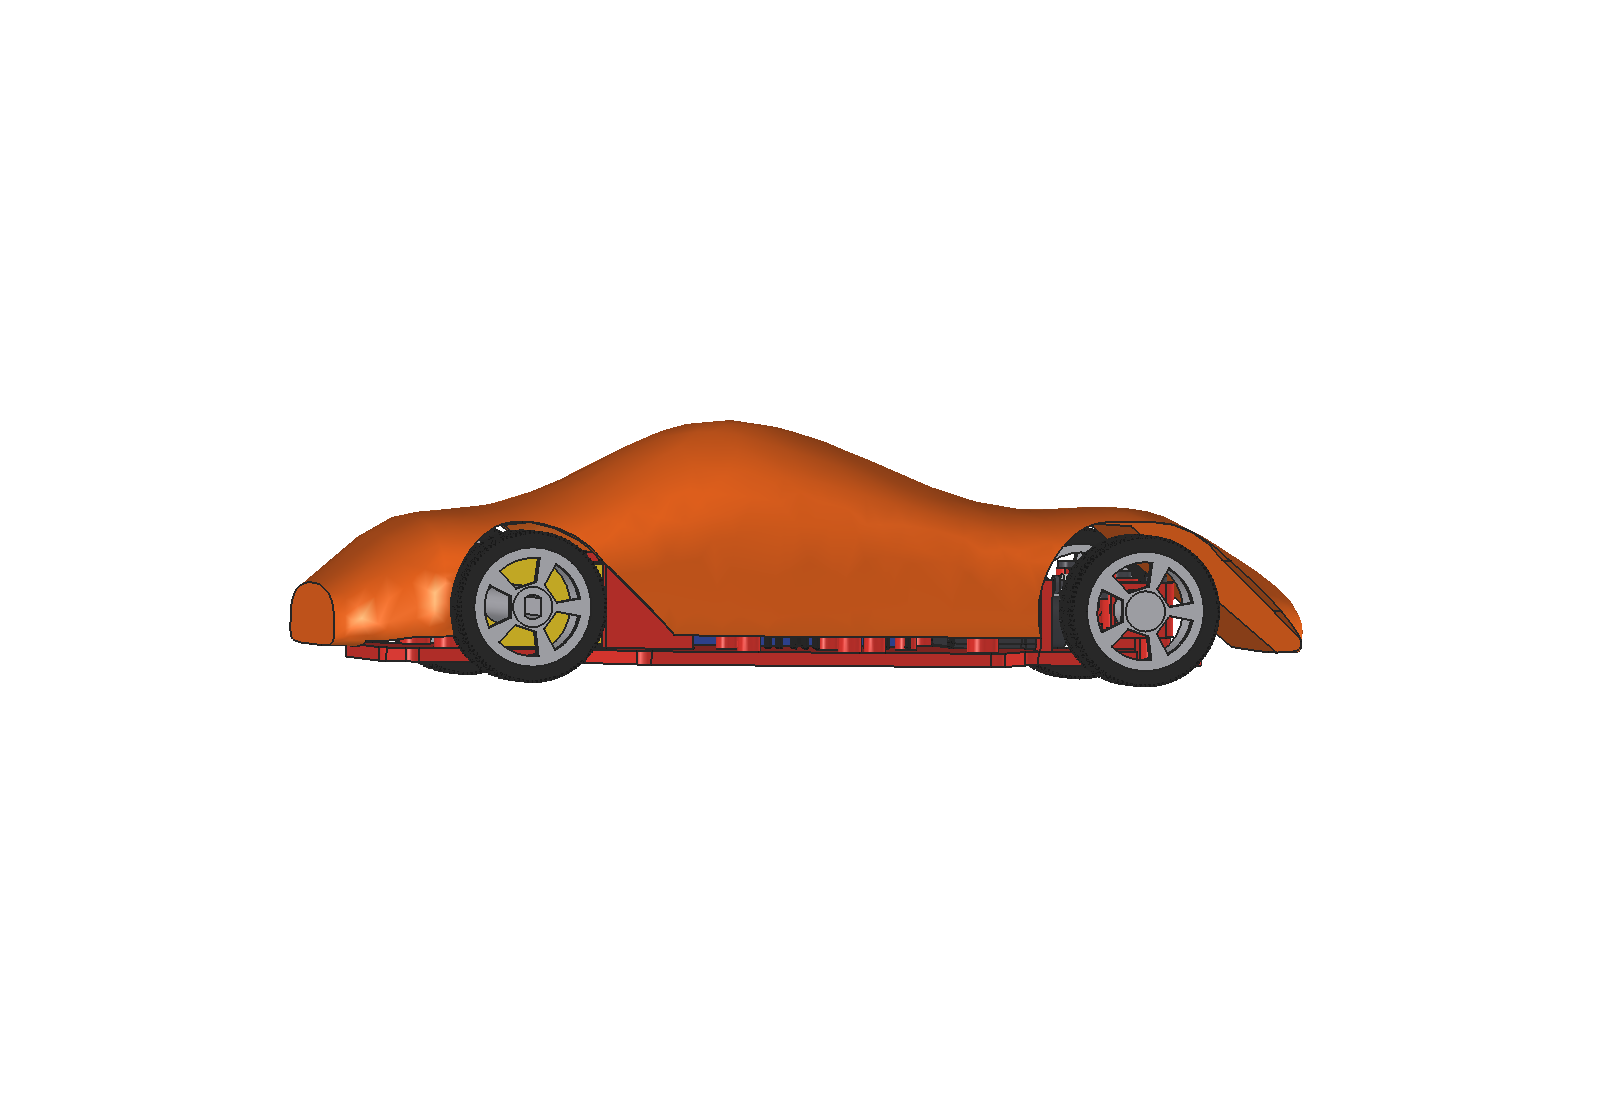
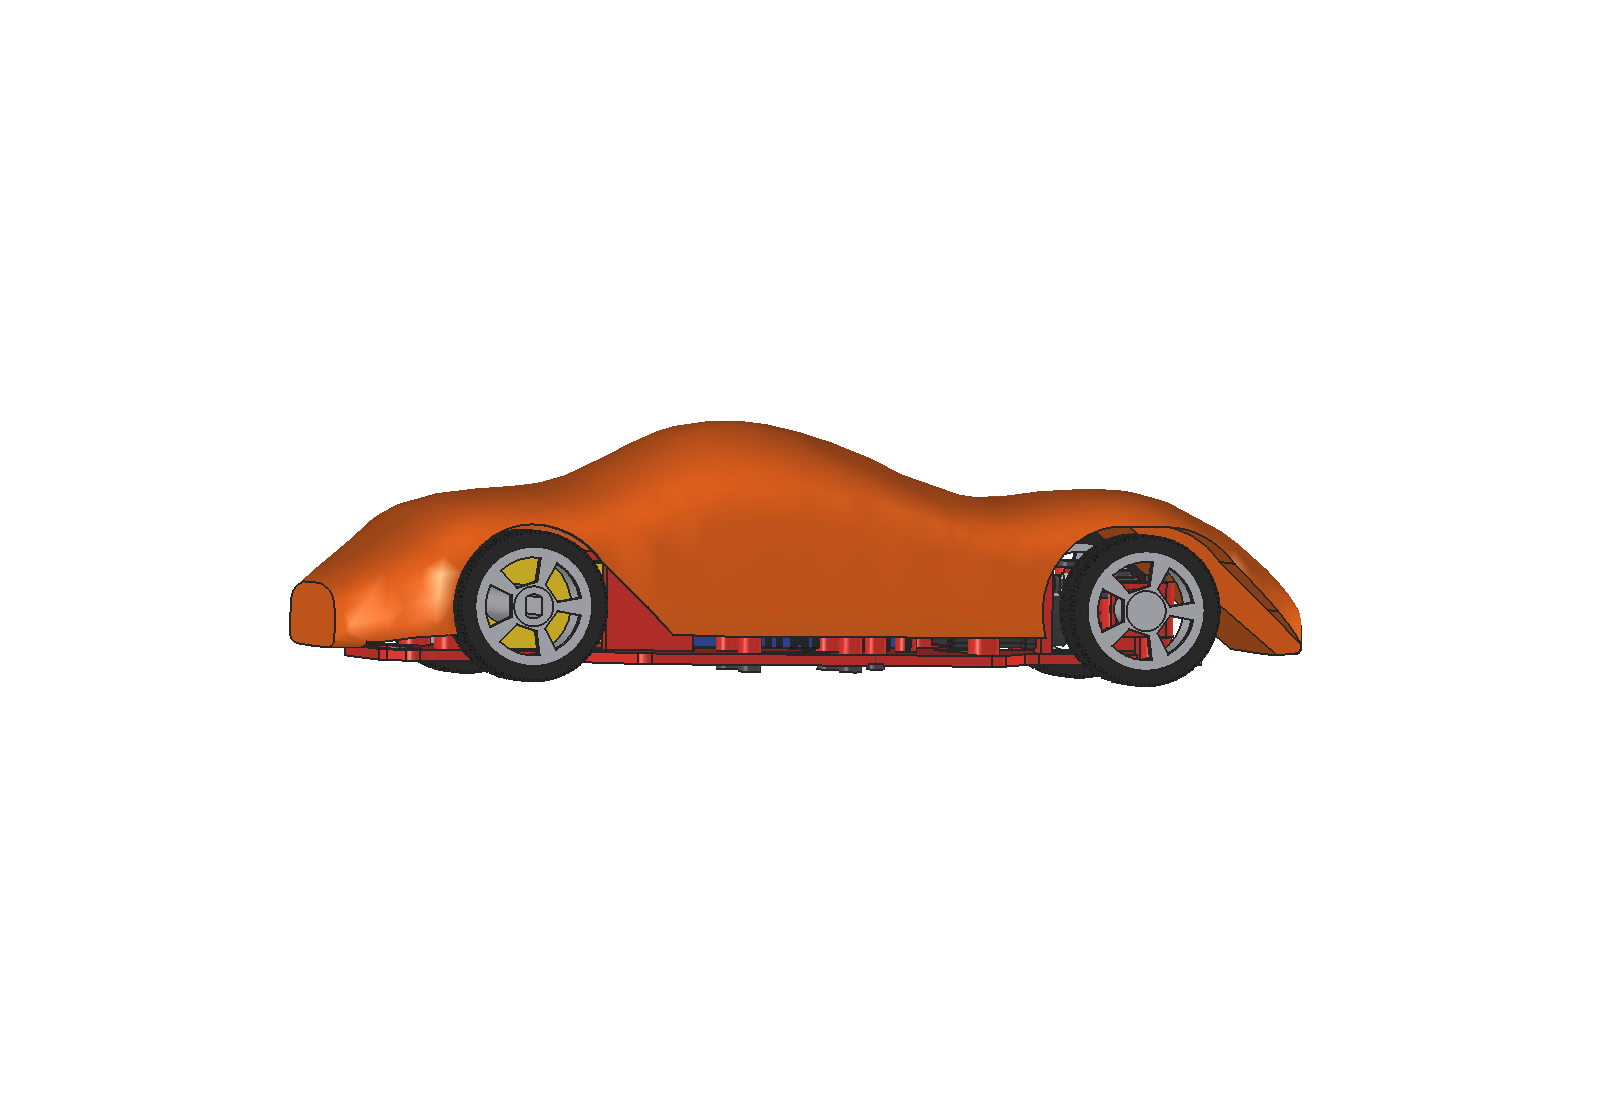
Kiem het roi moi cat lop + cyberbrick-car tiet kiem nhua 127 -> 118 g, chan bun phong
- prepare-print.py: tang 1 + kha nang in (printability + kiem theo lop) truoc; con loi -> dung, khong cat lop
  (ep: force)
- cyberbrick-car: vo 1.3 mm (= 3 duong Bambu; 1.2 -> slicer bao floating), san 2.4 mm + 6 cua so giam tai,
  infill san 15 %, vanh 20 %; chan bun phong che banh (hoc banh truoc da xuyen noc chan bun -> vo mong, cantilever);
  tran cua so gia servo 2 mai 45 do; them truc ra ben trai (bo 2 truc, ~9 mm do tu anh huong dan chinh hang)
- Ket qua: kiem nhanh WARN (bao loi hop so), kha nang in WARN (cau 4 mm khop lai), cat lop PASS 7h17, 118 g

diff --git a/claude-workspace/maker/cyberbrick-car/freecad/scripts/build_car.py b/claude-workspace/maker/cyberbrick-car/freecad/scripts/build_car.py
@@ -16,15 +16,16 @@ LIB = os.path.join(PROJ, "..", "..", "community", "cyberbrick-official", "models
 
 P = dict(            # ---- tham so chinh (mm) ----
     wheelbase=140.0, track=72.0, wheel_r=16.8, tire_w=13.7,
-    plate_z0=4.0, plate_t=3.0,          # tam san: gam 4 mm
+    plate_z0=4.0, plate_t=2.4,          # tam san: gam 4 mm; 2.4 mm + cua so giam tai (tiet kiem nhua, Tuan 2026-10-23)
     clr=0.2,                            # khe lap ghep (Tuan chot 0.2)
-    shell_t=1.6,                        # vo than xe
+    shell_t=1.3,                        # vo than xe = dung 3 duong Bambu (0.42 + 2 x 0.45); 1.2 -> 2 duong + lap khe vun
+                                        # -> slicer bao floating (2026-10-23). 1.6 -> 1.3 tiet kiem nhua
     kingpin_y=20.0, kingpin_dx=7.0,     # chot lai truoc tam banh 7 mm (caster duong: tu ve thang)
     arm_len=12.0,                       # lai Ackermann: tay lai huong ve tam truc sau
     servo_dy=-3.5,                      # lech servo sang phai de gia servo nam trong san
     servo_type="pg001",                 # servo lai: "pg001" (CyberBrick 9g 180) | "mg90s" (Tower Pro, mua ngoai) - gia dung chung
     servo_horn_r=8.2,
-    rear_arch_r=18.8, front_arch_r=19.6, front_arch_dx=5.0,
+    rear_arch_r=18.3, front_arch_r=18.8, front_arch_dx=5.0,   # dinh hoc banh duoi mat chan bun >= 3 mm
     stub_d=5.0,                         # truc banh truoc IN LIEN VANH (in dung), qua lo giot nuoc o khop lai
     rear_bore_d=5.4, rear_bore_af=3.7,  # truc ra double-D (do STEP: D5.3, dep 3.6 = chuan TT); TODO do bo 2 truc
     post_top=30.0, magnet_d=4.4, magnet_h=2.1,
@@ -103,6 +104,9 @@ GB_ROT = App.Rotation(V(0, 1, 0), -90)
 GB_MOVE = V(11.15, -6.2, Z_AX)                                               # vo hop so doi xung quanh Y = 0
 gearbox = placed(gb, GB_ROT, GB_MOVE)
 add("CB_Gearbox_030_dual_axis", gearbox, (0.95, 0.80, 0.10))
+# truc ra ben trai (bo 2 truc LA013): STEP chinh hang chi co bo 1 truc (truc phai, loi 8.1 mm). Do tu anh huong dan lap
+# chinh hang (Assembly_Guide_of_Dual_Axis_030..., hinh chieu canh, ti le theo vo 18 mm): loi ~9 mm moi ben, D ~5.3-5.6.
+add("CB_Gearbox_shaft_left", cyl(2.65, 9.0, V(0, -9.0, Z_AX), V(0, -1, 0)), (0.9, 0.9, 0.9))
 # hop bao VO hop so (khong tinh dong co / truc): local x +-11, y -2.8..15.2, z -32.2..22.15
 H = dict(x0=11.15 - 22.15, x1=11.15 + 32.2, y=9.0, z0=Z_AX - 11.0, z1=Z_AX + 11.0)
 
@@ -217,10 +221,15 @@ for dx in (-6.75, 6.75):
     add_ch.append(cyl(2.4, SW_C.z - PLATE_TOP + 0.01, V(SW_C.x + dx, SW_C.y + 15.5 * (1 if dx > 0 else -1), PLATE_TOP - 0.01), V(0, 0, 1)))
 # gia servo: tam dung truoc tai servo, cua so cho co truc
 TAB_X = TAB_FRONT                                                           # mat sau gia = mat truoc tai servo
-bracket = box(TAB_X, -13.6 + SDY, PLATE_TOP - 0.01, TAB_X + 2.6, 21.0 + SDY, SHAFT_Z + 6.1 + 3.5)
-# cua so bao ca 2 than (PG001 y -6.06..+16.69, z +-5.9; MG90S y -5.9..+16.8, z +-6.1 quanh truc) - luon servo tu sau
-bracket = bracket.cut(box(TAB_X - 1, SDY - 6.06 - P["clr"], PLATE_TOP, TAB_X + 5, SDY + 16.8 + P["clr"],
-                          SHAFT_Z + 6.1 + P["clr"]))
+# cua so bao ca 2 than (PG001 y -6.06..+16.69, z +-5.9; MG90S y -5.9..+16.8, z +-6.1 quanh truc) - luon servo tu sau.
+# Tran cua so: 2 mai 45 do chum lai, chi chua cau 5 mm o dinh (cau 23 mm thang -> vuon ra khi in, kiem lop 2026-10-23)
+WY0, WY1, WZ = SDY - 6.06 - P["clr"], SDY + 16.8 + P["clr"], SHAFT_Z + 6.1 + P["clr"]
+RISE = ((WY1 - WY0) - 5.0) / 2
+bracket = box(TAB_X, -13.6 + SDY, PLATE_TOP - 0.01, TAB_X + 2.6, 21.0 + SDY, WZ + RISE + 2.0)
+gable = pos(Part.Face(Part.makePolygon([V(TAB_X - 1, WY0, PLATE_TOP), V(TAB_X - 1, WY1, PLATE_TOP), V(TAB_X - 1, WY1, WZ),
+                                        V(TAB_X - 1, WY1 - RISE, WZ + RISE), V(TAB_X - 1, WY0 + RISE, WZ + RISE),
+                                        V(TAB_X - 1, WY0, WZ), V(TAB_X - 1, WY0, PLATE_TOP)])).extrude(V(6, 0, 0)))
+bracket = bracket.cut(gable)
 for ty in (SDY + 19.28, SDY - 8.49):                                       # trung binh 2 loai (lech <= 0.13 mm)
     bracket = bracket.cut(cyl(0.8, 10, V(TAB_X - 1, ty, SHAFT_Z), V(1, 0, 0)))   # lo moi vit M2
 add_ch.append(bracket)
@@ -228,6 +237,15 @@ add_ch.append(bracket)
 POSTS = [(-14.0, 19.0), (-14.0, -19.0), (FX - 35.0, 33.0), (FX - 35.0, -33.0)]
 for x, y in POSTS:
     add_ch.append(cyl(3.5, P["post_top"] - PLATE_TOP + 0.01, V(x, y, PLATE_TOP - 0.01), V(0, 0, 1)))
+# cua so giam tai (khong cat duoi tru / vach / gia): sau pin, giua bo thu, giua san, truoc giua 2 tai lai, sau truc sau
+for x0, y0, x1, y1 in ((47, 14, 91, 34), (54, -34, 70, -18), (72, -4, 90, 8), (103, -10, 114, 12), (FX - 12, -10, FX + 2, 10),
+                       (-27, -14, -19, 14)):
+    w = box(x0, y0, P["plate_z0"] - 1, x1, y1, PLATE_TOP + 1)
+    try:
+        w = w.makeFillet(2.5, [e for e in w.Edges if e.BoundBox.ZLength > 1])
+    except Exception:
+        pass
+    plate = plate.cut(w)
 chassis = fuse(plate, *add_ch)
 for x, y in POSTS:
     chassis = chassis.cut(cyl(P["magnet_d"] / 2, P["magnet_h"] + 0.01, V(x, y, P["post_top"] - P["magnet_h"]), V(0, 0, 1)))
@@ -359,10 +377,10 @@ for nm, x, sgn, rear in (("RL", 0, 1, True), ("RR", 0, -1, True), ("FL", FX, 1, 
 Z0 = PLATE_TOP + 0.2
 ST = [  # x, nua rong w, cao vai (belt) zb, cao dinh h, nua rong mai wr
     # IN DUNG (duoi up xuong ban): duoi no ra <= ~45 do de vo tu in khong can do
-    (-41.5, 24, 17, 21.0, 19), (-35, 30, 22, 26.0, 25), (-28, 36, 27, 31.5, 31), (-21, 42, 31, 35.5, 36.5),
-    (0, 44, 35, 38.5, 40), (18, 44, 36, 45, 31),
-    (38, 43.5, 37, 55, 26), (66, 43.5, 37, 56, 26), (88, 43.5, 37, 48, 30), (108, 43.5, 37, 40.5, 37),
-    (FX, 43.5, 36.5, 39.0, 40), (FX + 20, 42, 30, 32.5, 37), (FX + 34, 34, 21, 23.5, 29),
+    (-41.5, 24, 17, 21.0, 19), (-35, 30, 22, 26.0, 25), (-28, 36, 27, 31.5, 31), (-21, 42, 33, 37.0, 36.5),
+    (0, 44, 39, 42.0, 40), (18, 44, 37.5, 45, 31),                              # vom chan bun sau phong
+    (38, 43.5, 37, 55, 26), (66, 43.5, 37, 56, 26), (88, 43.5, 37, 48, 30), (108, 43.5, 37.5, 41.0, 37),
+    (FX, 43.5, 39.5, 43.0, 40), (FX + 20, 42, 34, 36.0, 37),                     # vom chan bun truoc phong (FX + 34, 34, 21, 23.5, 29),
     (FX + 39, 26, 16.5, 19.0, 21), (FX + 41, 17, 13.5, 15.5, 13)]               # mui bo tron
 
 
@@ -381,7 +399,7 @@ def section(x, w, zb, h, wr, z0, t=0.0, n=48):
         else:        # nua tren: vom + thu hep ve mai
             k = 1.0 - min(wr, w) / w
             y = w * math.copysign(abs(ca) ** (2 / 3.2), ca) * (1.0 - k * sa ** 4)
-            z = zc + (h - zc) * sa ** (2 / 2.4)
+            z = zc + (h - zc) * sa ** (2 / 3.5)                              # vai day (vom chan bun che banh)
         pts.append(V(x, y, z))
     bs = Part.BSplineCurve()
     bs.interpolate(pts, PeriodicFlag=True)

diff --git a/claude-workspace/maker/robotics-cad/scripts/prepare-print.py b/claude-workspace/maker/robotics-cad/scripts/prepare-print.py
@@ -1,4 +1,9 @@
-"""Chuan bi in bang 1 lenh: [kiem nhanh tang 1] song song [xuat STL theo huong in -> cat lop tang 2].
+"""Chuan bi in bang 1 lenh: KIEM HET TRUOC, SACH MOI CAT LOP (Tuan 2026-10-23: "xong xuoi tat ca roi hay ra file in").
+
+  1) song song: kiem nhanh tang 1 (check.py) | xuat STL theo huong in (export-stl.py) | metrics.py
+  2) kha nang in tren STL (printability: mat nho ra khong do + KIEM THEO LOP: cum roi) - vai giay
+  3) CHI KHI 1) khong FAIL va 2) khong co nho ra/cum roi -> cat lop Bambu (slice.py) ra file in .3mf
+     (co loi -> dung, khong cat: tiet kiem thoi gian, khong de lai file in sai). Ep cat: them `force` sau print.yaml.
 
 Chay (Python di kem FreeCAD):
     "C:/Program Files/FreeCAD 1.1/bin/python.exe" scripts/prepare-print.py <project>/print/print.yaml
@@ -35,6 +40,7 @@ def main():
     sys.stdout.reconfigure(encoding="utf-8")  # dong thay doi/BOM co tieng Viet
     t0 = time.time()
     cfg_p = Path(sys.argv[1]).resolve()
+    ep_cat = "force" in sys.argv[2:]
     cfg = yaml.safe_load(cfg_p.read_text(encoding="utf-8"))
     goc = (cfg_p.parent / cfg.get("data_dir", ".")).resolve()  # FCStd/STL co the o ngoai repo
     fcstd = (goc / cfg["fcstd"]).resolve()
@@ -54,33 +60,61 @@ def main():
     xs = json.loads((goc / cfg["stl"] / "_export-stl.json").read_text(encoding="utf-8"))
     print(f"  xuat STL: {xs['so_stl']} file, {t_xuat:.0f} s"
           + (f"; QUY TAC KHONG KHOP: {xs['quy_tac_khong_khop']}" if xs["quy_tac_khong_khop"] else ""), flush=True)
-    print("Tang 2 (cat lop Bambu) ...", flush=True)
-    p3 = chay([sys.executable, HERE / "slice.py", cfg_p], logs / "slice.txt")
-    p3.wait()
-    t_cat = time.time() - t0 - t_xuat
+    # 2) kha nang in tren STL theo huong in (trong luc check.py van chay)
+    import printability
+    tng = yaml.safe_load((HERE.parent / "thresholds.yaml").read_text(encoding="utf-8"))
+    ngp = dict(tng.get("print") or {}, overhang_deg=tng.get("overhang_deg", 45))
+    t1 = time.time()
+    loi_in, cb_in = [], []
+    for f in sorted((goc / cfg["stl"]).glob("*.stl")):
+        r = printability.phan_tich(f, ngp)
+        if r["can_support"]:
+            loi_in.append(f"{f.name}: nho ra khong do " + ", ".join(
+                f"{c['mm2']} mm2 o z {c['z_mm']}" for c in r["cum_nho"][:2]) + " -> sua thiet ke / `support: true`")
+        for x in printability.kiem_lop(f):
+            if x["loai"].startswith("roi"):
+                loi_in.append(f"{f.name}: cum ROI {x['mm2']} mm2 o z {x['z_mm']} (xy {x['bao_xy']})")
+            elif x["loai"] == "vuon ra" and x.get("mm2", 0) > 20:
+                cb_in.append(f"{f.name}: vuon ra {x['mm2']} mm2 o z {x['z_mm']} (bac cau? xy {x['bao_xy']})")
+    print(f"  kha nang in: {len(loi_in)} loi, {len(cb_in)} canh bao ({time.time() - t1:.1f} s)", flush=True)
     p1.wait()
-
     kq = []
     b1 = json.loads((out_kt / "report.json").read_text(encoding="utf-8"))
     loi1 = [f"{c['nhan']}: {k} {v['tom_tat']}" for c in b1["chi_tiet"] for k, v in c["ket_qua"].items()
             if v["trang_thai"] == "FAIL"]
     loi1 += [f"{x['a']} ~ {x['b']}: {x['tom_tat']}" for x in b1["va_cham"]["cap"] if x["trang_thai"] == "FAIL"]
     kq.append(("Tang 1 kiem nhanh", b1["ket_luan"], f"{b1['thoi_gian_chay_s']} s", loi1, out_kt / "overview.png"))
-    b2 = json.loads((ra / "print-report.json").read_text(encoding="utf-8"))
-    loi2 = [f"{b['ban']}: {x}" for b in b2["ban"] for x in b["loi"]]
-    loi2 += [f"STL chua xep ban: {n}" for n in b2["stl_chua_xep"]]
-    xl = "; ".join(f"{k}: support {v['support']}" + (f", xoay {v['xoay']}" if v["xoay"] else "")
-                   for k, v in b2.get("xu_ly_lo_lung", {}).items() if v["xoay"] or v["support"])
-    kq.append(("Tang 2 cat lop", b2["ket_luan"], f"{t_cat:.0f} s, in {b2['tong_thoi_gian_in']}, {b2['tong_gam']} g",
-               loi2 + ([f"tu xu ly nho ra / lo lung -> {xl}"] if xl else [])
-               + [f"brim: {k} ({len(v)} chi tiet nho)" for k, v in b2.get("brim", {}).items()],
-               ra / "print-overview.png"))
+    kq.append(("Kha nang in (STL)", "FAIL" if loi_in else ("WARN" if cb_in else "PASS"),
+               f"{xs['so_stl']} STL", loi_in + cb_in, ""))
+
+    # 3) chi cat lop khi da sach
+    b2 = None
+    if (b1["ket_luan"] != "FAIL" and not loi_in) or ep_cat:
+        print("Tang 2 (cat lop Bambu) ...", flush=True)
+        t2 = time.time()
+        p3 = chay([sys.executable, HERE / "slice.py", cfg_p], logs / "slice.txt")
+        p3.wait()
+        t_cat = time.time() - t2
+        b2 = json.loads((ra / "print-report.json").read_text(encoding="utf-8"))
+    else:
+        kq.append(("Tang 2 cat lop", "INFO", "CHUA CAT - sua loi o tren truoc (file in cu trong plates/ KHONG con dung)",
+                   [], ""))
+    if b2 is not None:
+        loi2 = [f"{b['ban']}: {x}" for b in b2["ban"] for x in b["loi"]]
+        loi2 += [f"STL chua xep ban: {n}" for n in b2["stl_chua_xep"]]
+        xl = "; ".join(f"{k}: support {v['support']}" + (f", xoay {v['xoay']}" if v["xoay"] else "")
+                       for k, v in b2.get("xu_ly_lo_lung", {}).items() if v["xoay"] or v["support"])
+        kq.append(("Tang 2 cat lop", b2["ket_luan"], f"{t_cat:.0f} s, in {b2['tong_thoi_gian_in']}, {b2['tong_gam']} g",
+                   loi2 + ([f"tu xu ly nho ra / lo lung -> {xl}"] if xl else [])
+                   + [f"brim: {k} ({len(v)} chi tiet nho)" for k, v in b2.get("brim", {}).items()],
+                   ra / "print-overview.png"))
 
     # hoi quy: metrics.json (+ gio/gam ban in) so voi git HEAD; BOM tu Label. Chi bao, khong FAIL.
     p4.wait()
     *_, f_m = metrics.cau_hinh(cfg_p)
     if p4.returncode == 0 and f_m.exists():
-        metrics.them_ban_in(cfg_p, b2)
+        if b2 is not None:
+            metrics.them_ban_in(cfg_p, b2)
         lk = next((x[11:].split(",") for x in cfg.get("check", []) if x.startswith("components=")), [])
         tt, tom, dong = metrics.so_sanh(metrics.ban_git(f_m), json.loads(f_m.read_text(encoding="utf-8")), lk)
         kq.append(("So voi commit truoc", tt, tom, dong, ""))
@@ -104,7 +138,10 @@ def main():
         print(f"{ten}: {tt} ({tg})" + (f"  anh: {anh}" if anh else ""))
         for x in loi:
             print(f"   - {x}")
-    print(f"File in (mo bang Bambu Studio): {ra}\\<ban>\\<ban>.3mf")
+    if b2 is not None:
+        print(f"File in (mo bang Bambu Studio): {ra}\\<ban>\\<ban>.3mf")
+    else:
+        print("CHUA RA FILE IN: sua loi tang 1 / kha nang in roi chay lai (ep cat: them `force`).")
     # tom tat canh print.yaml cho Toolhub (trang Du an) doc; file sinh, khong len git
     tom = {"thoi_gian": time.strftime("%Y-%m-%d %H:%M"), "tong_s": round(time.time() - t0), "thu_muc_in": str(ra),
            "tang": [{"ten": ten, "ket_luan": tt, "chi_tiet": tg, "loi": loi, "anh": str(anh)}

diff --git a/claude-workspace/maker/cyberbrick-car/README.md b/claude-workspace/maker/cyberbrick-car/README.md
@@ -18,7 +18,7 @@ bộ phát/thu CyberBrick (XA003 + XA004/XA005). Model **sinh từ tham số**: 
 | Truyền động | động cơ 030 (LA024) + bộ bánh răng 2 trục **LA013 1:21** (khuyên dùng; có 1:37/1:48/…) – trục ra double-D làm luôn trục bánh sau |
 | Lái | servo **PG001** (CyberBrick) hoặc **MG90S** (mua ngoài) – giá servo dùng chung; chốt lái trước tâm bánh 7 mm (caster) |
 | Thân | gắn bằng 4 cặp nam châm 4 × 2 mm (tháo nhanh) |
-| In | 3 bàn, **~7 h 17, ~127 g** Bambu PETG Basic (số liệu luôn mới: [BOM.md](BOM.md)); **không support** |
+| In | 3 bàn, **~7 h 17, ~118 g** Bambu PETG Basic (số liệu luôn mới: [BOM.md](BOM.md)); **không support** |
 
 Tốc độ ước tính (chưa đo): 030 không tải 10 500 vòng/phút ±10 % (8 V), định mức 6 900 → qua 1:21 ≈ 330–500 vòng/phút ở
 bánh Φ33,7 → **≈ 0,6–0,9 m/s**. TODO: đo thật.
@@ -57,8 +57,10 @@ Giá servo: mặt tựa theo MG90S; PG001 vít kéo áp vào giá (lệch 0,47 m
 7. Dây: servo → S1, động cơ → cổng M (theo sơ đồ chính hãng xe Truck); 8 nam châm (để ý cực hút nhau).
 
 ## TODO (cần đo/hỏi trước khi in khớp chặt)
-- Trục ra của **bộ 2 trục** (LA013): độ dài phần lồi mỗi bên, kích thước double-D. Model hiện dùng số đo bộ 1 trục:
-  Φ5,3 mm, dẹt 3,6 mm, lồi 8,1 mm.
+- Trục ra **bộ 2 trục** (LA013): cửa hàng Bambu không ghi số. Đo theo tỉ lệ ảnh hướng dẫn lắp chính hãng
+  (`Assembly_Guide_of_Dual_Axis_030_Reduction_Motor.pdf`, hình chiếu cạnh, lấy bề dày vỏ 18 mm làm thước):
+  **lồi ≈ 9 mm mỗi bên (±1 mm)**, Φ ≈ 5,3–5,6, có mặt dẹt + lỗ ở đầu trục. Moay-ơ bánh sau ôm 8,4 mm – đủ.
+  TODO đo thật khi có hàng.
 - Vỏ hộp số 2 trục: có lỗ Φ4 ở cùng vị trí bộ 1 trục không (chốt định vị trên vách sàn).
 - Lốp LA027 ôm vành: kiểm độ chặt (vành Φ26,8/Φ30,1).
 - Bộ phát: chọn cấu hình kênh (lái/ga) trong app CyberBrick.
@@ -69,6 +71,13 @@ Giá servo: mặt tựa theo MG90S; PG001 vít kéo áp vào giá (lệch 0,47 m
 8 nam châm 4 × 2 mm, vít (bảng vít trong [BOM.md](BOM.md)).
 
 ## Lịch sử sửa
+- 2026-10-23 (2): tiết kiệm nhựa 127 → 118 g:
+  - Vỏ 1,6 → 1,3 mm. Thử 1,2 mm thì slicer báo floating.
+  - Sàn 3 → 2,4 mm, thêm 6 cửa sổ giảm tải.
+  - Infill: sàn 25 → 15 %, vành 40 → 20 %.
+
+  Chắn bùn phồng che kín bánh. Trước đó hốc bánh xuyên thủng nóc chắn bùn và để lại vỏ mỏng mà Bambu báo cantilever.
+  Trần cửa sổ giá servo đổi thành mái 45°. Quy trình mới: kiểm hết rồi mới cắt lớp.
 - 2026-10-23: v0.2 – in không support (thân in đứng, khớp lái mới trục in liền vành, gân nam châm, hốc bánh 45°),
   giá servo dùng chung PG001/MG90S, `safe_edit` bắt được 3 boolean hỏng âm thầm (removeSplitter lộn ngược solid,
   mảnh vụn, mặt gần trùng). Kiểm nhanh WARN (hộp số ước bằng bao lồi), cắt lớp PASS 7 h 17, 127 g.

diff --git a/claude-workspace/maker/robotics-cad/CLAUDE.md b/claude-workspace/maker/robotics-cad/CLAUDE.md
@@ -31,7 +31,9 @@ Thiết kế cơ khí robot (khung, gá động cơ/cảm biến, hộp số) đ
 3. Kiểm tra va chạm và tầm quay khớp trong Assembly.
 4. **Một lệnh chuẩn bị in** (2026-10-23, pushrod-arm ~1–2 phút; trước đó >1 giờ):
    `"C:/Program Files/FreeCAD 1.1/bin/python.exe" scripts/prepare-print.py maker/<project>/print/print.yaml`
-   = tầng 1 (`check.py`) song song [xuất STL theo hướng in (`export-stl.py`) → tầng 2 cắt lớp (`slice.py`)].
+   = **kiểm hết trước, sạch mới cắt lớp** (Tuan 2026-10-23): tầng 1 (`check.py`) ∥ xuất STL (`export-stl.py`) ∥
+   `metrics.py` → khả năng in trên STL (`printability`: nhô ra không đỡ + **kiểm theo lớp**) → chỉ khi không FAIL mới
+   tầng 2 cắt lớp (`slice.py`) ra .3mf. Có lỗi → dừng, không ra file in (ép: thêm `force`).
    Hướng in, tham số kiểm, bàn in khai trong `print/print.yaml` (mẫu `project-template/print/print.yaml`;
    bản đầy đủ: `maker/pushrod-arm/print/print.yaml`). Chỉ đọc file đã **Lưu**; có `rest_pose` thì tự về tư thế gốc.
    Toolhub → Dự án → nút **Chuẩn bị in** / **Tự chạy khi Lưu** (`scripts/watch.py`); in xong `/print-result`.
@@ -101,6 +103,9 @@ maker/<project>/            tên tiếng Anh, kebab-case
 - **Nhựa mặc định: Bambu PETG Basic** (Tuan 2026-10-23) – profile chính hãng `Bambu PETG Basic @BBL A1` (245 °C, bàn 70 °C,
   13 mm³/s). Bàn in: Textured PEI (TDS: SuperTack/Textured/Smooth PEI, 65–75 °C; PEI bám chặt → đợi bàn nguội mới gỡ).
   `slice.py` đọc được cả preset riêng (vd. KINGROON-PETG) nếu đổi cuộn. Đệm/chi tiết dẻo: TPU 95A.
+- Vỏ mỏng in đứng: bề dày = **bội số đường in Bambu** (0,42 + n × 0,45: 1 đường 0,42 / 2 đường 0,87 / 3 đường 1,3 mm).
+  Lệch (vd. 1,2 mm) → slicer in thiếu đường + lấp khe vụn → báo "floating" (cyberbrick-car 2026-10-23).
+  Slicer báo lỗi mà không chỉ chỗ → cắt STL thành lát (manifold3d) cho Bambu cắt từng lát để khoanh vùng.
 - Khe hở lắp ghép: **0,2 mm** (Tuan 2026-10-23, đã tính co ngót nhựa). Bánh răng ăn khớp / đệm lỏng khai `mesh-pair`.
 - Đặt tên **tiếng Anh** cho thư mục, file, script, khóa YAML, tham số (Tuan 2026-10-23); nội dung tài liệu tiếng Việt.
 - mm; dung sai lắp ghép in FDM: ghi giá trị đã thử, chưa thử thì `TODO` (không đoán).

diff --git a/claude-workspace/maker/cyberbrick-car/BOM.md b/claude-workspace/maker/cyberbrick-car/BOM.md
@@ -15,6 +15,7 @@ Sinh tự động từ `freecad/cyberbrick_car.FCStd` bằng `maker/robotics-cad
 |---|---|
 | `CB_Battery_PC003` | 1 |
 | `CB_Gearbox_030_dual_axis` | 1 |
+| `CB_Gearbox_shaft_left` | 1 |
 | `CB_Magnet_CA001 (nam cham 4 x 2 mm)` | 8 |
 | `CB_Servo9g_180_steering` | 1 |
 | `CB_Switch_XA007` | 1 |
@@ -25,8 +26,8 @@ Sinh tự động từ `freecad/cyberbrick_car.FCStd` bằng `maker/robotics-cad
 ## Chi tiết in 3D
 | Chi tiết | Bàn in | Nhựa | Thể tích (cm³) |
 |---|---|---|---|
-| `Body_coupe` | P1_Body__0.20_PETG | Bambu PETG Basic @BBL A1 | 70.28 |
-| `Chassis` | P2_Chassis_Steering__0.20_PETG | Bambu PETG Basic @BBL A1 | 41.78 |
+| `Body_coupe` | P1_Body__0.20_PETG | Bambu PETG Basic @BBL A1 | 81.12 |
+| `Chassis` | P2_Chassis_Steering__0.20_PETG | Bambu PETG Basic @BBL A1 | 31.09 |
 | `Gearbox_strap` | P2_Chassis_Steering__0.20_PETG | Bambu PETG Basic @BBL A1 | 0.32 |
 | `Knuckle_L` | P2_Chassis_Steering__0.20_PETG | Bambu PETG Basic @BBL A1 | 1.34 |
 | `Knuckle_R` | P2_Chassis_Steering__0.20_PETG | Bambu PETG Basic @BBL A1 | 1.34 |
@@ -41,7 +42,7 @@ Sinh tự động từ `freecad/cyberbrick_car.FCStd` bằng `maker/robotics-cad
 ## Bàn in (số liệu slicer)
 | Bàn | Thời gian | Nhựa (g) | Support |
 |---|---|---|---|
-| P1_Body__0.20_PETG | 4h19 | 64.3 | – |
-| P2_Chassis_Steering__0.20_PETG | 1h34 | 41.1 | – |
-| P3_Wheels__0.16_PETG | 1h23 | 22.0 | – |
-| **Tổng** | **7h17** | **127.4** | |
+| P1_Body__0.20_PETG | 4h20 | 63.3 | – |
+| P2_Chassis_Steering__0.20_PETG | 1h30 | 34.3 | – |
+| P3_Wheels__0.16_PETG | 1h26 | 20.4 | – |
+| **Tổng** | **7h17** | **118.0** | |
